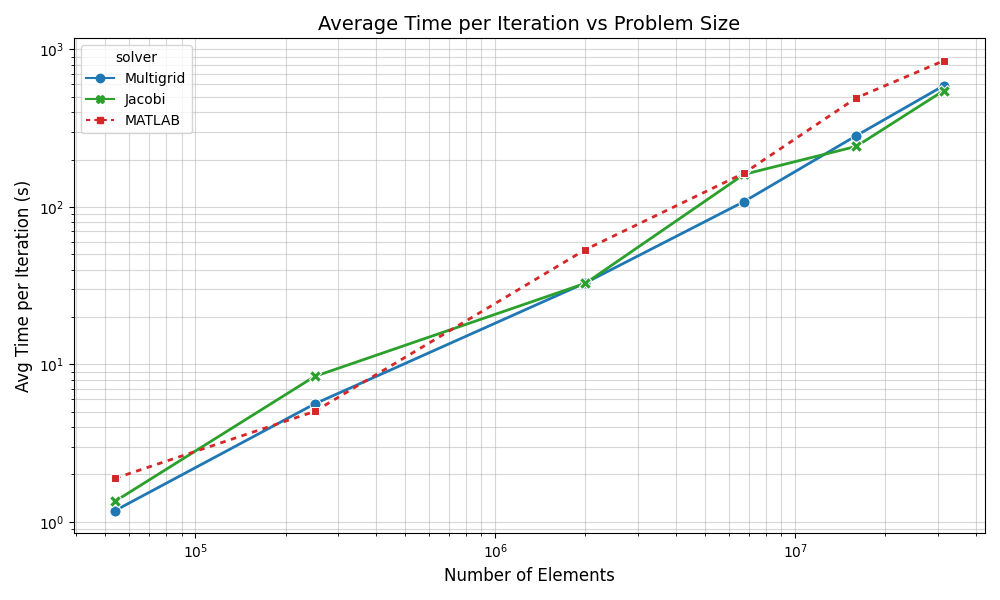
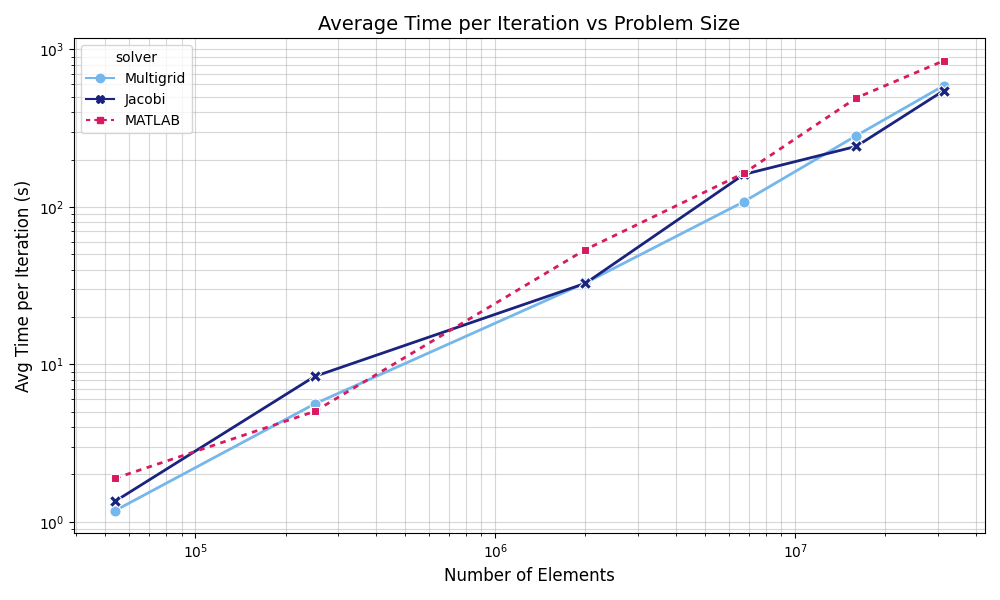
Added parallelism plots

Changed region(s): [[0.093, 0.09, 0.961, 0.87], [0.093, 0.12, 0.124, 0.21], [0.837, 0.15, 0.868, 0.18]]

diff --git a/matlab/TOP3D_XL.m b/matlab/TOP3D_XL.m
@@ -188,24 +188,24 @@ function TOP3D_XL_TO(inputModel, V0, nLoop, rMin)
 	
 	%%Output
 	densityLayout_ = xPhys(:);
-	fileName = strcat(outPath, 'DesignVolume.nii');
-	IO_ExportDesignInVolume_nii(fileName);
+	% fileName = strcat(outPath, 'DesignVolume.nii');
+	% IO_ExportDesignInVolume_nii(fileName);
 	disp(['..........Solving FEA Costs: ', sprintf('%10.4e', sum(sum(tHist(:,1:2)))), 's.']);
 	disp(['..........Optimization (inc. sentivity analysis, update) Costs: ', sprintf('%10.4e', sum(tHist(:,3))), 's.']);
 	disp(['..........Performing PDE Filtering Costs: ', sprintf('%10.4e', sum(tHist(:,4))), 's.']);
 	disp(['..........Performing Topology Optimization Costs (in total): ', sprintf('%10.4e', toc(tStartTotal)), 's.']);
-	fid = fopen(strcat(outPath, 'iters_Target.dat'), 'w');
-	fprintf(fid, '%d\n', lssIts);
-	fclose(fid);
-	fid = fopen(strcat(outPath, 'c_Target.dat'), 'w');
-	fprintf(fid, '%30.16e\n', cHist);
-	fclose(fid);
-	fid = fopen(strcat(outPath, 'sharp_Target.dat'), 'w');
-	fprintf(fid, '%30.16e\n', sharpHist);
-	fclose(fid);
-	fid = fopen(strcat(outPath, 'timing_Target.dat'), 'w');
-	fprintf(fid, '%16.6e\n', tHist(:,end));
-	fclose(fid);
+	% fid = fopen(strcat(outPath, 'iters_Target.dat'), 'w');
+	% fprintf(fid, '%d\n', lssIts);
+	% fclose(fid);
+	% fid = fopen(strcat(outPath, 'c_Target.dat'), 'w');
+	% fprintf(fid, '%30.16e\n', cHist);
+	% fclose(fid);
+	% fid = fopen(strcat(outPath, 'sharp_Target.dat'), 'w');
+	% fprintf(fid, '%30.16e\n', sharpHist);
+	% fclose(fid);
+	% fid = fopen(strcat(outPath, 'timing_Target.dat'), 'w');
+	% fprintf(fid, '%16.6e\n', tHist(:,end));
+	% fclose(fid);
 	
 	%%Vis.
     allVoxels = zeros(size(meshHierarchy_(1).eleMapForward));
@@ -222,8 +222,8 @@ function TOP3D_XL_TO(inputModel, V0, nLoop, rMin)
     lighting('gouraud');
     material('dull'); 
     camlight('headlight','infinite');
-	fileName = strcat(outPath, 'DesignVolume.stl');
-	IO_ExportDesignInTriSurface_stl(fileName, facesIsosurface, facesIsocap);	
+	% fileName = strcat(outPath, 'DesignVolume.stl');
+	% IO_ExportDesignInTriSurface_stl(fileName, facesIsosurface, facesIsocap);	
 end
 
 function TOP3D_XL_PIO(inputModel, Ve0, nLoop, rMin, rHat)
@@ -416,25 +416,25 @@ function TOP3D_XL_PIO(inputModel, Ve0, nLoop, rMin, rHat)
 				
 	end
 	densityLayout_ = xPhys(:);
-	fileName = strcat(outPath, 'DesignVolume.nii');
-	IO_ExportDesignInVolume_nii(fileName);
+	% fileName = strcat(outPath, 'DesignVolume.nii');
+	% IO_ExportDesignInVolume_nii(fileName);
 	disp(['..........Solving FEA costs: ', sprintf('%10.4e', sum(sum(tHist(:,1:2)))), 's.']);
 	disp(['..........Optimization (inc. sentivity analysis, update) costs: ', sprintf('%10.4e', sum(tHist(:,3))), 's.']);
 	disp(['..........Performing PDE Filtering costs: ', sprintf('%10.4e', sum(tHist(:,4))), 's.']);
 	disp(['..........Applying for Local Volume Constraint costs: ', sprintf('%10.4e', sum(tHist(:,5))), 's.']);
 	disp(['..........Performing Topology Optimization Costs (in total): ', sprintf('%10.4e', toc(tStartTotal)), 's.']);
-	fid = fopen(strcat(outPath, 'iters_Target.dat'), 'w');
-	fprintf(fid, '%d\n', lssIts);
-	fclose(fid);
-	fid = fopen(strcat(outPath, 'c_Target.dat'), 'w');
-	fprintf(fid, '%30.16e\n', cHist);
-	fclose(fid);
-	fid = fopen(strcat(outPath, 'sharp_Target.dat'), 'w');
-	fprintf(fid, '%30.16e\n', sharpHist);
-	fclose(fid);
-	fid = fopen(strcat(outPath, 'timing_Target.dat'), 'w');
-	fprintf(fid, '%16.6e\n', tHist(:,end));
-	fclose(fid);
+	% fid = fopen(strcat(outPath, 'iters_Target.dat'), 'w');
+	% fprintf(fid, '%d\n', lssIts);
+	% fclose(fid);
+	% fid = fopen(strcat(outPath, 'c_Target.dat'), 'w');
+	% fprintf(fid, '%30.16e\n', cHist);
+	% fclose(fid);
+	% fid = fopen(strcat(outPath, 'sharp_Target.dat'), 'w');
+	% fprintf(fid, '%30.16e\n', sharpHist);
+	% fclose(fid);
+	% fid = fopen(strcat(outPath, 'timing_Target.dat'), 'w');
+	% fprintf(fid, '%16.6e\n', tHist(:,end));
+	% fclose(fid);
 	
 	%%Vis.	
     allVoxels = zeros(size(meshHierarchy_(1).eleMapForward));
@@ -451,8 +451,8 @@ function TOP3D_XL_PIO(inputModel, Ve0, nLoop, rMin, rHat)
     lighting('gouraud');
     material('dull'); 
     camlight('headlight','infinite');
-	fileName = strcat(outPath, 'DesignVolume.stl');
-	IO_ExportDesignInTriSurface_stl(fileName, facesIsosurface, facesIsocap);	
+	% fileName = strcat(outPath, 'DesignVolume.stl');
+	% IO_ExportDesignInTriSurface_stl(fileName, facesIsosurface, facesIsocap);	
 end
 
 function CreateVoxelFEAmodel(inputModel)

diff --git a/plot_results.py b/plot_results.py
@@ -27,9 +27,9 @@ def main():
     # Keep colors/styles consistent across all plots
     solver_order = ["Multigrid", "Jacobi", "MATLAB"]
     solver_palette = {
-        "Multigrid": "#1f77b4",  # blue
-        "Jacobi": "#2ca02c",     # green
-        "MATLAB": "#d62728",     # red
+        "Multigrid": "#76b7eb",  # light blue
+        "Jacobi": "#1a237e",     # dark blue
+        "MATLAB": "#d81b60",     # magenta
     }
     # Solid lines for Multigrid/Jacobi, dotted for MATLAB
     solver_dashes = [(None, None), (None, None), (2, 2)]
@@ -152,6 +152,89 @@ def main():
         plt.tight_layout()
         plt.savefig('plot_avg_time_per_iter.png')
         print("Plot saved to 'plot_avg_time_per_iter.png'")
+
+    # --- Plot 5: Scaling Runs (time + speedup vs CPU count) ---
+    scaling_df = df[
+        (df['file'].str.contains("SCALING")) &
+        (df['solver'] != "Unknown") &
+        (df['cpus'] > 0)
+    ].copy()
+
+    if scaling_df.empty:
+        print("No scaling data found.")
+        return
+
+    # For non-MATLAB runs, each core uses 2 threads; normalize to core-count
+    scaling_df['core_count'] = scaling_df.apply(
+        lambda row: row['cpus'] if row['solver'] == "MATLAB" else row['cpus'] * 2,
+        axis=1
+    )
+    scaling_df.sort_values(by=['elements', 'solver', 'core_count'], inplace=True)
+
+    # Compute per-solver baseline time at the minimum core count to derive speedup
+    scaling_df['baseline_time'] = (
+        scaling_df.groupby(['solver', 'elements'])['total_time']
+                  .transform('first')
+    )
+    scaling_df['speedup'] = scaling_df['baseline_time'] / scaling_df['total_time']
+
+    # Time vs CPUs (log-log to emphasize scaling slope)
+    plt.figure(figsize=(10, 6))
+    sns.lineplot(
+        data=scaling_df,
+        x='core_count',
+        y='total_time',
+        hue='solver',
+        style='solver',
+        hue_order=solver_order,
+        style_order=solver_order,
+        palette=solver_palette,
+        dashes=solver_dashes,
+        markers=True,
+        linewidth=2,
+        markersize=8,
+        estimator=None,
+        sort=False,
+    )
+    plt.title('Strong Scaling: Total Runtime vs CPU Count', fontsize=14)
+    plt.xlabel('CPU Cores', fontsize=12)
+    plt.ylabel('Total Time (s)', fontsize=12)
+    plt.grid(True, which="both", ls="-", alpha=0.5)
+    plt.xscale('log')
+    plt.yscale('log')
+    plt.tight_layout()
+    plt.savefig('plot_scaling_time.png')
+    print("Plot saved to 'plot_scaling_time.png'")
+
+    # Speedup vs CPUs (with ideal linear reference)
+    min_core = scaling_df['core_count'].min()
+    cpu_vals = sorted(scaling_df['core_count'].unique())
+
+    plt.figure(figsize=(10, 6))
+    ax = sns.lineplot(
+        data=scaling_df,
+        x='core_count',
+        y='speedup',
+        hue='solver',
+        style='solver',
+        hue_order=solver_order,
+        style_order=solver_order,
+        palette=solver_palette,
+        dashes=solver_dashes,
+        markers=True,
+        linewidth=2,
+        markersize=8,
+        estimator=None,
+        sort=False,
+    )
+    plt.title('Strong Scaling: Speedup vs CPU Count', fontsize=14)
+    plt.xlabel('CPU Cores', fontsize=12)
+    plt.ylabel('Speedup (vs min-core run)', fontsize=12)
+    plt.grid(True, which="both", ls="-", alpha=0.5)
+    plt.tight_layout()
+    plt.legend()
+    plt.savefig('plot_scaling_speedup.png')
+    print("Plot saved to 'plot_scaling_speedup.png'")
 
 if __name__ == "__main__":
     main()
